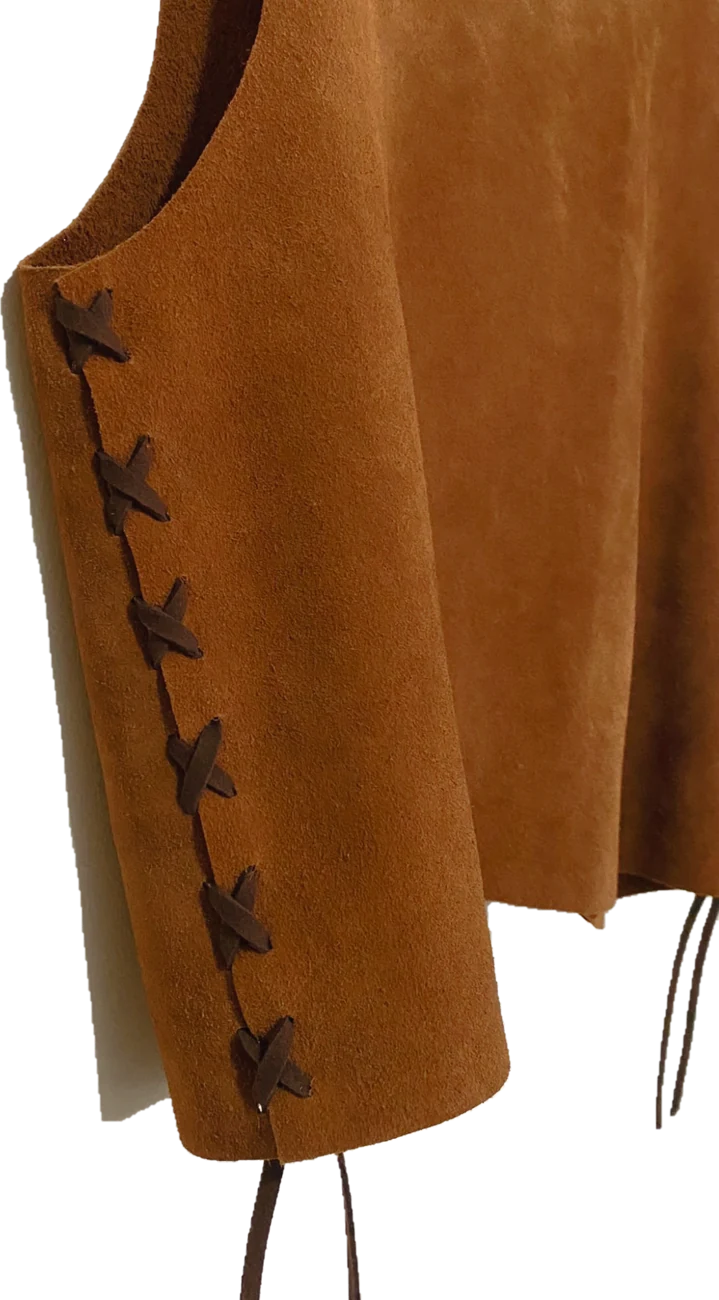
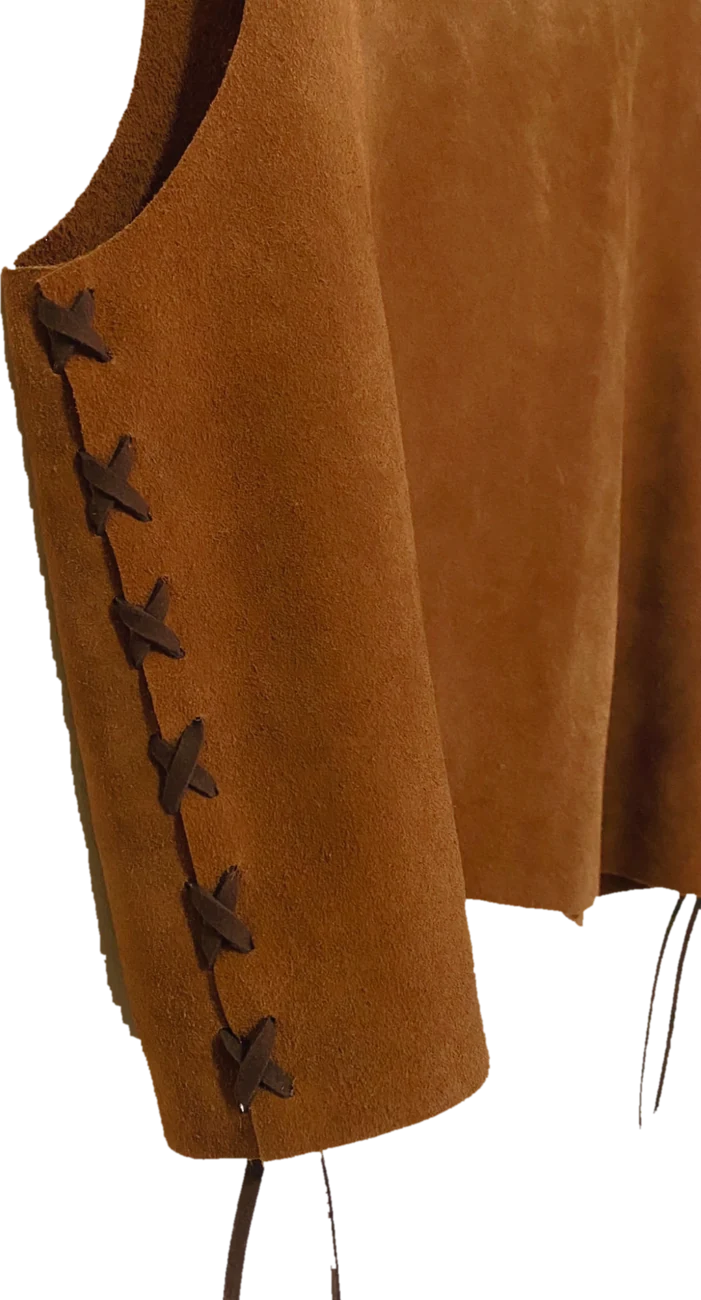
TIRRA: detalle del Cruz sin sombra y flechas para pasar de foto
Claude-Session: https://claude.ai/code/session_01FHVGg6LRu9CuR4S83BY3x6

diff --git a/patria/tirra.js b/patria/tirra.js
@@ -469,6 +469,16 @@
         minis.appendChild(b);
       });
     }
+    // flechas: recorren frente, espalda y detalles
+    function moverFoto(d) {
+      var bs = Array.prototype.filter.call(minis.children, function (b) { return b.dataset.clave !== "pronto"; });
+      if (!bs.length) return;
+      var k = bs.findIndex(function (b) { return b.getAttribute("aria-pressed") === "true"; });
+      bs[(k + d + bs.length) % bs.length].click();
+    }
+    document.getElementById("detPrev").addEventListener("click", function (e) { e.stopPropagation(); moverFoto(-1); });
+    document.getElementById("detNext").addEventListener("click", function (e) { e.stopPropagation(); moverFoto(1); });
+    ["detPrev", "detNext"].forEach(function (id) { document.getElementById(id).addEventListener("pointerdown", function (e) { e.stopPropagation(); }); });
     function origen(i) { return slots[i].giro.getBoundingClientRect(); }
     function abrir(i) {
       var x = PIEZAS[i], p = producto(x.id);
@@ -519,7 +529,7 @@
       an.onfinish = function () { fin(); an.cancel(); };
     }
     perchero.cerrar = cerrar;
-    perchero.girar = function () { girarA(ladoAct === "frente" ? "espalda" : "frente"); };
+    perchero.girar = function (d) { moverFoto(d || 1); };
     det.addEventListener("click", function (e) { if (e.target.closest("[data-cerrar-det]")) cerrar(); });
     document.getElementById("detAgregar").addEventListener("click", function () { var p = producto(PIEZAS[abierta].id); agregar(p.id, 1); avisar(p.nombre + " — agregado"); });
     var arr = document.getElementById("detArrastre");
@@ -548,7 +558,7 @@
   menu.addEventListener("click", function (e) { if (e.target.closest("a")) abrirMenu(false); });
   document.addEventListener("keydown", function (e) {
     if (e.key === "Escape") { if (!visor.hidden) cerrarVisor(); else if (!ficha.hidden) cerrarFicha(); else if (carritoEl.classList.contains("is-abierto")) abrirCarrito(false); else if (perchero.abierto) perchero.cerrar(); else abrirMenu(false); }
-    if (perchero.abierto && ficha.hidden && (e.key === "ArrowRight" || e.key === "ArrowLeft")) perchero.girar();
+    if (perchero.abierto && ficha.hidden && (e.key === "ArrowRight" || e.key === "ArrowLeft")) perchero.girar(e.key === "ArrowRight" ? 1 : -1);
     if (!visor.hidden && e.key === "ArrowRight") moverVisor(1);
     if (!visor.hidden && e.key === "ArrowLeft") moverVisor(-1);
   });

diff --git a/patria/tirra.css b/patria/tirra.css
@@ -149,6 +149,13 @@ body.menu-abierto .header .logo__claro{ display:none; } body.menu-abierto .heade
 .detalle__mini--pronto small{ font-size:7.5px; letter-spacing:.14em; text-transform:uppercase; color:var(--gris); }
 .detalle__foto{ position:absolute; left:0; top:4%; width:100%; height:92%; object-fit:contain; object-position:50% 50%; opacity:0; pointer-events:none; transition:opacity .45s; }
 .detalle__figura.ver-foto .detalle__foto{ opacity:1; }
+.detalle__flecha{ position:absolute; top:50%; z-index:3; width:40px; height:40px; margin-top:-20px; border-radius:50%; display:flex; align-items:center; justify-content:center;
+  background:rgba(251,250,248,.72); -webkit-backdrop-filter:blur(6px); backdrop-filter:blur(6px); border:1px solid var(--linea); color:var(--tinta);
+  opacity:.55; transition:opacity .3s, transform .4s var(--ease), background .3s; }
+.detalle__flecha:hover{ opacity:1; background:#fff; }
+.detalle__flecha svg{ width:16px; height:16px; fill:none; stroke:currentColor; stroke-width:1.4; stroke-linecap:round; stroke-linejoin:round; }
+.detalle__flecha--izq{ left:-64px; } .detalle__flecha--der{ right:-64px; }
+.detalle__flecha--izq:hover{ transform:translateX(-3px); } .detalle__flecha--der:hover{ transform:translateX(3px); }
 .detalle__figura .detalle__arrastre, .detalle__figura .detalle__hilo{ transition:opacity .45s; }
 .detalle__figura.ver-foto .detalle__arrastre, .detalle__figura.ver-foto .detalle__hilo{ opacity:0; pointer-events:none; }
 .detalle__figura{ position:relative; margin:0 auto; height:min(66vh,600px); aspect-ratio:200/310; transform-origin:50% 0; }
@@ -368,6 +375,7 @@ body.con-modal .wa, body.menu-abierto .wa{ opacity:0; pointer-events:none; }
   .detalle__minis > :first-child{ margin-left:auto; } .detalle__minis > :last-child{ margin-right:auto; }
   .detalle__minis::-webkit-scrollbar{ display:none; }
   .detalle__mini{ width:58px; height:72px; }
+  .detalle__flecha{ width:34px; height:34px; margin-top:-17px; opacity:.8; } .detalle__flecha--izq{ left:-6px; } .detalle__flecha--der{ right:-6px; }
   .detalle__mini--pronto small{ font-size:6px; letter-spacing:.04em; } .detalle__mini--pronto span{ font-size:9px; }
   .detalle__figura{ order:1; } .detalle__info{ order:3; }
 

diff --git a/patria/index.html b/patria/index.html
@@ -14,7 +14,7 @@
 <link rel="preconnect" href="https://fonts.googleapis.com">
 <link rel="preconnect" href="https://fonts.gstatic.com" crossorigin>
 <link href="https://fonts.googleapis.com/css2?family=Inter:wght@400;700&display=swap" rel="stylesheet">
-<link rel="stylesheet" href="tirra.css?v=16">
+<link rel="stylesheet" href="tirra.css?v=17">
 </head>
 <body>
 
@@ -110,13 +110,15 @@
         </div>
       </div>
       <img class="detalle__foto" id="detFoto" alt="">
+      <button class="detalle__flecha detalle__flecha--izq" id="detPrev" type="button" aria-label="Foto anterior"><svg viewBox="0 0 24 24" aria-hidden="true"><path d="M15 5l-7 7 7 7"/></svg></button>
+      <button class="detalle__flecha detalle__flecha--der" id="detNext" type="button" aria-label="Foto siguiente"><svg viewBox="0 0 24 24" aria-hidden="true"><path d="M9 5l7 7-7 7"/></svg></button>
     </div>
     <div class="detalle__info">
       <p class="detalle__num" id="detNum"></p>
       <h3 class="detalle__nombre" id="detNombre"></h3>
       <p class="detalle__precio" id="detPrecio"></p>
       <p class="detalle__desc" id="detDesc"></p>
-      <p class="detalle__pista" id="detPista">Tocá las fotos de la izquierda para ver frente, espalda y detalles</p>
+      <p class="detalle__pista" id="detPista">Usá las flechas o las fotos para ver frente, espalda y detalle</p>
       <button class="boton" id="detAgregar" type="button">Agregar al carrito</button>
       <a class="detalle__ficha" id="detConsulta" href="#" target="_blank" rel="noopener">Consultar por WhatsApp →</a>
     </div>
@@ -278,6 +280,6 @@
 <script src="https://cdnjs.cloudflare.com/ajax/libs/gsap/3.12.5/gsap.min.js"></script>
 <script src="https://cdnjs.cloudflare.com/ajax/libs/gsap/3.12.5/ScrollTrigger.min.js"></script>
 <script src="productos.js?v=28"></script>
-<script src="tirra.js?v=19"></script>
+<script src="tirra.js?v=20"></script>
 </body>
 </html>

diff --git a/patria/images/procesar-detalle.py b/patria/images/procesar-detalle.py
@@ -1,7 +1,7 @@
 # Foto de detalle: saca la pared, iguala luz/color al chaleco y la deja centrada
 import sys, numpy as np, cv2
 from PIL import Image
-def procesar(src, ref, dst):
+def procesar(src, ref, dst, sin_grises=False):
     rgb=np.asarray(Image.open(src).convert('RGB')); H,W=rgb.shape[:2]
     hsv=cv2.cvtColor(rgb,cv2.COLOR_RGB2HSV).astype(float)
     pared=((hsv[...,2]>98)&(hsv[...,1]<75)).astype(np.uint8)
@@ -30,6 +30,27 @@ def procesar(src, ref, dst):
     for k in range(1,n):
         x,y,w,h,ar=st[k]
         if ar<H*W*0.01 and x>0 and y>0 and x+w<W and y+h<H: keep[lab==k]=255
+    if sin_grises:   # cuero de color fuerte: todo lo gris claro es pared o sombra en la pared
+        gris=(((hsv[...,1]<70)&(hsv[...,2]>110))|((hsv[...,1]<140)&(hsv[...,2]>80))).astype(np.uint8)
+        gris=cv2.morphologyEx(gris,cv2.MORPH_OPEN,np.ones((3,3),np.uint8))
+        keep[cv2.dilate(gris,np.ones((5,5),np.uint8))>0]=0
+        mitad=int(W*0.5)
+        izq=cv2.morphologyEx(keep[:,:mitad],cv2.MORPH_OPEN,cv2.getStructuringElement(cv2.MORPH_ELLIPSE,(11,11)))
+        keep[:,:mitad]=izq
+        # borde izquierdo parejo: mediana móvil del primer píxel de cuero en cada fila
+        filas=np.arange(H); xs=np.full(H,-1)
+        for y in range(H):
+            r=np.nonzero(keep[y,:mitad]>127)[0]
+            if len(r): xs[y]=r[0]
+        val=xs>=0; ys=filas[val]; xv=xs[val].astype(float)
+        if len(ys)>50:
+            med=np.array([np.median(xv[max(0,i-30):i+30]) for i in range(len(xv))])
+            for y,x0 in zip(ys,med):
+                keep[y,:int(round(x0))+3]=0
+        inv=(keep==0).astype(np.uint8); n2,l2,s2,_=cv2.connectedComponentsWithStats(inv,4)
+        for k in range(1,n2):
+            x,y,w,h,ar=s2[k]
+            if ar<3000 and x>0 and y>0 and x+w<W and y+h<H: keep[l2==k]=255
     # manchas sueltas de sombra: componentes chicos lejos de la prenda principal
     n,lab,st,_=cv2.connectedComponentsWithStats((keep>127).astype(np.uint8),8)
     if n>2:
@@ -63,5 +84,5 @@ def procesar(src, ref, dst):
     bb=im.getchannel('A').point(lambda v:255 if v>60 else 0).getbbox(); im=im.crop(bb); im.thumbnail((1000,1300))
     im.save(dst,quality=88,method=6); print(dst,im.size)
 I='/tmp/claude-0/-home-user-CositasLav/a0c7a990-b18e-5cae-9d74-25293d1b0935/images/'; P='/home/user/CositasLav/patria/images/'
-for s,r,d in [('26','perch-pec-cria','det-pec-cria'),('27','perch-cha-cruz','det-cha-cruz'),('28','perch-cha-latte','det-cha-latte')]:
-    procesar(I+s+'.webp',P+r+'.webp',P+d+'.webp')
+for s,r,d,g in [('26','perch-pec-cria','det-pec-cria',False),('27','perch-cha-cruz','det-cha-cruz',True),('28','perch-cha-latte','det-cha-latte',False)]:
+    procesar(I+s+'.webp',P+r+'.webp',P+d+'.webp',g)

diff --git a/notas/patria.md b/notas/patria.md
@@ -114,3 +114,4 @@ la página queda usable sin animaciones.
 - Pechera Cría: costados emparejados de la sisa al ruedo (`images/emparejar-costados.py`, se corre después de `recortar-percha.py`).
 - Gancho real: la barra apoya en la parte interna de la curva y un pedacito de barra (`.pieza__tapa`) tapa la punta, así la punta queda por detrás. En la pieza abierta el hilo baja centrado hasta adentro de la curva del gancho.
 - Detalles: una foto por chaleco (bolsillo → Pechera Cría, costado suela → Cruz, costado chocolate → Latte), sin pared y con el tono igualado al chaleco: `images/det-*.webp` (script `images/procesar-detalle.py`). Se muestran centradas en el mismo lugar que frente/espalda.
+- Detalle del Cruz sin la sombra de la pared (filtro de grises + borde izquierdo parejo). Pieza abierta con flechas flotantes (‹ ›) y teclas ← → para pasar entre frente, espalda y detalle.
